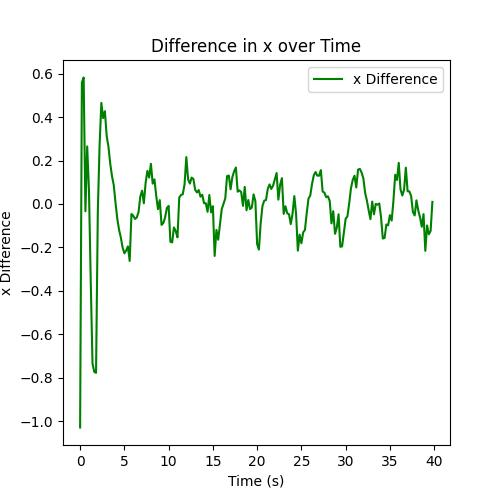
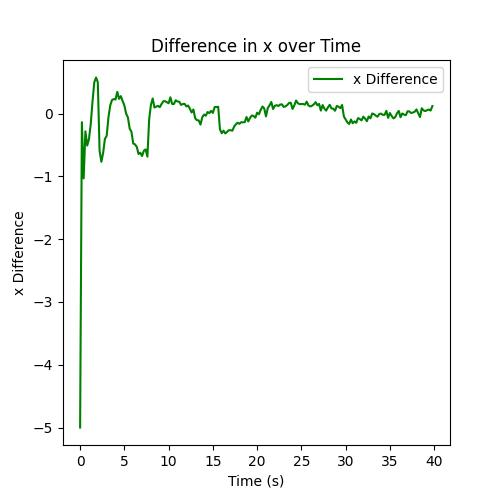
trailing_controller TBD

diff --git a/Test_func/test_kf_carla.py b/Test_func/test_kf_carla.py
@@ -12,7 +12,7 @@ import matplotlib.animation as animation
 from casadi import DM
 from vehicleModel.vehicle_model import car_VehicleModel
 from kalman_filter.kalman_filter import kalman_filter
-from util.utils import get_state, setup_carla_environment
+from util.utils import get_state, setup_carla_environment,plot_paths,plot_diff
 
 # ----------------- Carla Settings ------------------------
 #! set the initial position of the car and truck
@@ -21,7 +21,7 @@ car,truck = setup_carla_environment()
 velocity1 = carla.Vector3D(10, 0, 0)
 velocity2 = carla.Vector3D(15, 0, 0)
 car.set_target_velocity(velocity2)
-car.apply_control(carla.VehicleControl(throttle=0.2, steer=1, brake=0))
+car.apply_control(carla.VehicleControl(throttle=0.0, steer=0.5, brake=0))
 
 
 
@@ -66,11 +66,13 @@ ekf=kalman_filter(F,B,H,x0,P0,Q0,R0)
 
 #list to store the true and estimated state
 true_x = []
+true_x.append(float(x_iter[0]))
 true_y = []
-estimated_x = []
-estimated_y = []
-x_difference = []
-y_difference = []
+true_y.append(float(x_iter[1]))
+estimated_x = [float(x0[0])]
+estimated_y = [float(x0[1])]
+x_difference = [true_x[-1]-estimated_x[-1]]
+y_difference = [true_y[-1]-estimated_y[-1]]
 
 
 # update animation
@@ -96,18 +98,7 @@ def update(frame):
     y_diff = (true_y[-1] - estimated_y[-1])
     x_difference.append(x_diff)
     y_difference.append(y_diff)
-    # Plot for true and estimated paths
-    plt.figure(1)
-    plt.cla()
-    plt.plot(true_x, true_y, label='True Path', color='blue')
-    plt.plot(estimated_x, estimated_y, label='Estimated Path', color='red')
-    plt.scatter(true_x[-1], true_y[-1], color='blue', s=50)
-    plt.scatter(estimated_x[-1], estimated_y[-1], color='red', s=50)
-    plt.title(f"Time: {t:.2f}s - Paths")
-    plt.legend()
-    # Flip the plot horizontally
-    plt.gca().invert_xaxis()
-
+    plot_paths(true_x, true_y,estimated_x, estimated_y,t)
 
 # -------start animation----------------
 fig = plt.figure(figsize=(5, 5))
@@ -115,21 +106,5 @@ ani = animation.FuncAnimation(fig, update, frames=len(t_axis), repeat=False)
 ani.save('C:\\Users\\A490243\\Desktop\\Master_Thesis\\Test_func\\animation.gif', writer='imagemagick', fps=30)
 # plt.show()
 # ----------------- check the x, y difference ------------------------
-# For x difference
-plt.figure(2, figsize=(5, 5))
-plt.plot(t_axis.flatten(), x_difference[:-1], label='x Difference', color='green')
-plt.xlabel('Time (s)')
-plt.ylabel('x Difference')
-plt.title('Difference in x over Time')
-plt.legend()
-plt.savefig('C:\\Users\\A490243\\Desktop\\Master_Thesis\\Test_func\\x_difference.jpg')
+plot_diff(t_axis,x_difference,y_difference)
 
-# For y difference
-plt.figure(3, figsize=(5, 5))
-plt.plot(t_axis.flatten(), y_difference[:-1], label='y Difference', color='orange')
-plt.xlabel('Time (s)')
-plt.ylabel('y Difference')
-plt.title('Difference in y over Time')
-plt.legend()
-plt.savefig('C:\\Users\\A490243\\Desktop\\Master_Thesis\\Test_func\\y_difference.jpg')
-plt.show()

diff --git a/util/utils.py b/util/utils.py
@@ -1,6 +1,7 @@
 import math
 import carla
 import numpy as np
+import matplotlib.pyplot as plt
 
 
 def get_state(vehicle):
@@ -63,3 +64,59 @@ def spawn_vehicle(world, blueprint, spawn_point):
     except Exception as e:
         print(f"Error spawning vehicle: {e}")
         return None
+    
+    
+def plot_paths(true_x, true_y,estimated_x, estimated_y,t):
+    plt.figure(1)
+    plt.cla()
+    plt.plot(true_x, true_y, label='True Path', color='blue')
+    plt.plot(estimated_x, estimated_y, label='Estimated Path', color='red')
+    plt.scatter(true_x[-1], true_y[-1], color='blue', s=50)
+    plt.scatter(estimated_x[-1], estimated_y[-1], color='red', s=50)
+    plt.title(f"Time: {t:.2f}s - Paths")
+    plt.legend()
+    plt.gca().invert_xaxis()
+
+
+def plot_diff(t_axis,x_difference,y_difference):
+    # For x difference
+    plt.figure(2, figsize=(5, 5))
+    plt.plot(t_axis.flatten(), x_difference[:-2], label='x Difference', color='green')
+    plt.xlabel('Time (s)')
+    plt.ylabel('x Difference')
+    plt.title('Difference in x over Time')
+    plt.legend()
+    plt.savefig('C:\\Users\\A490243\\Desktop\\Master_Thesis\\Test_func\\x_difference.jpg')
+
+    # For y difference
+    plt.figure(3, figsize=(5, 5))
+    plt.plot(t_axis.flatten(), y_difference[:-2], label='y Difference', color='orange')
+    plt.xlabel('Time (s)')
+    plt.ylabel('y Difference')
+    plt.title('Difference in y over Time')
+    plt.legend()
+    plt.savefig('C:\\Users\\A490243\\Desktop\\Master_Thesis\\Test_func\\y_difference.jpg')
+    plt.show()
+    
+#make sure angle in -pi pi
+def angle_trans(angle):
+    if angle > np.pi:
+        angle = angle - 2*np.pi
+    elif angle < -np.pi:
+        angle = angle + 2*np.pi
+    return angle
+
+def check_dimensions_car(nx, nu):
+    """
+    Check if the dimensions nx and nu are as expected.
+
+    Parameters:
+    - nx (int): The number of state variables.
+    - nu (int): The number of control inputs.
+
+    Raises:
+    - ValueError: If nx is not equal to 4 or nu is not equal to 2.
+    """
+    if nx != 4 or nu != 2:
+        raise ValueError("Error: nx must be equal to 4 and nu must be equal to 2.")
+    

diff --git a/Controller/Acc_Controller.py b/Controller/Acc_Controller.py
@@ -1,0 +1,47 @@
+# this file is used to test the acc controller
+import sys
+CARLA_PATH = 'C:\\Users\\A490243\\CARLA\\CARLA_Latest\\WindowsNoEditor\\PythonAPI\\carla'
+THESIS_PATH = 'C:\\Users\\A490243\\Desktop\\Master_Thesis'
+sys.path.extend([CARLA_PATH, THESIS_PATH])
+from casadi import *
+from  Autonomous_Truck_Sim.controllers import makeController, makeDecisionMaster
+from  Autonomous_Truck_Sim.scenarios import trailing
+from vehicleModel.vehicle_model import car_VehicleModel
+from util.utils import check_dimensions_car
+class car_trailing(trailing):
+    """
+    inherit from trailing class and used for car
+    The ego vehicle keeps lane and adapts to leadning vehicle speed
+    """
+    def __init__(self, vehicle, N, min_distx=5, lanes=3, laneWidth=6.5):
+        super().__init__(vehicle, N, min_distx, lanes, laneWidth)
+        self.name = 'car_trailing'
+        
+#test the output of the sub class
+test_car = car_VehicleModel(dt=0.2,N=10, width = 2, length = 4)
+vehWidth,vehLength,_,_ = test_car.getSize()
+nx,nu,nrefx,nrefu = test_car.getSystemDim()
+check_dimensions_car(nx,nu)
+check_dimensions_car(nrefx,nrefu)
+# System initialization 
+dt = 0.2                    # Simulation time step (Impacts traffic model accuracy)
+f_controller = 5            # Controller update frequency, i.e updates at each t = dt*f_controller
+N =  12                     # MPC Horizon length
+ref_vx = 60/3.6             # Higway speed limit in (m/s)
+int_opt = 'rk'
+test_car.integrator(int_opt,dt)
+F_x_ADV  = test_car.getIntegrator()
+# Set Cost parameters
+Q_ADV = [0,40,3e2,5,5]                            # State cost, Entries in diagonal matrix
+R_ADV = [5,5]                                    # Input cost, Entries in diagonal matrix
+q_ADV_decision = 50
+test_car.cost(Q_ADV,R_ADV)
+test_car.costf(Q_ADV)
+L_ADV,Lf_ADV = test_car.getCost()
+# print(L_ADV,Lf_ADV)
+
+#! this one is for the trailing 
+# opts3 = {"version" : "trailing", "solver": "ipopt", "integrator":"rk"}
+# MPC3 = makeController(vehicleADV,traffic,scenarioTrailADV,N,opts3,dt_MPC)
+# MPC3.setController()
+# trailLead = MPC3.getFunction()

diff --git a/vehicleModel/vehicle_model.py b/vehicleModel/vehicle_model.py
@@ -24,6 +24,8 @@ class car_VehicleModel(vehBicycleKinematic):
         self.name = "car_bicycle"
         self.nx = 4                     # State dimensions
         #! rewrite the refx
+        self.nrefx = self.nx
+        self.nrefu = self.nu
         self.refxT = [0,0,60/3.6,0]
         self.refxL = [0,0,60/3.6,0]
         self.refxR = [0,0,60/3.6,0]
@@ -41,9 +43,9 @@ class car_VehicleModel(vehBicycleKinematic):
         self.v = self.x_init[2]
 
 
-        self.refxT = [0,0,60/3.6,0,0]
-        self.refxL = [0,0,60/3.6,0,0]
-        self.refxR = [0,0,60/3.6,0,0]
+        self.refxT = [0,0,60/3.6,0]
+        self.refxL = [0,0,60/3.6,0]
+        self.refxR = [0,0,60/3.6,0]
 
         # System model variables
         self.x = SX.sym('x',self.nx)             # self.x = [p_x p_y v_x v_y]

diff --git a/Autonomous_Truck_Sim/controllers.py b/Autonomous_Truck_Sim/controllers.py
@@ -1,7 +1,7 @@
 from casadi import *
 import numpy as np
 from matplotlib import pyplot as plt
-from helpers import *
+from .helpers import *
 
 class makeController:
     """
@@ -175,7 +175,7 @@ class makeController:
             self.opti.set_value(self.traffic_x,traffic_x)
             self.opti.set_value(self.traffic_y,traffic_y)
             self.opti.set_value(self.traffic_sign,traffic_sign)
-            self.opti.set_value(self.traffic_shift,traffic_shift)
+            self.opti.set_value(self.traffic_shift,traffic_shift)e
             self.opti.set_value(self.traffic_flip,traffic_flip)
             self.opti.set_value(self.x0,x_iter)
 

diff --git a/Autonomous_Truck_Sim/scenarios.py b/Autonomous_Truck_Sim/scenarios.py
@@ -2,7 +2,7 @@
 import numpy as np
 from casadi import *
 
-from helpers import *
+from .helpers import *
 
 class trailing:
     '''

diff --git a/Test_func/CARLA_ACC_TEST.py b/Test_func/CARLA_ACC_TEST.py
@@ -1,0 +1,2 @@
+#! This file is useed to test the acc controller
+from casadi import *
